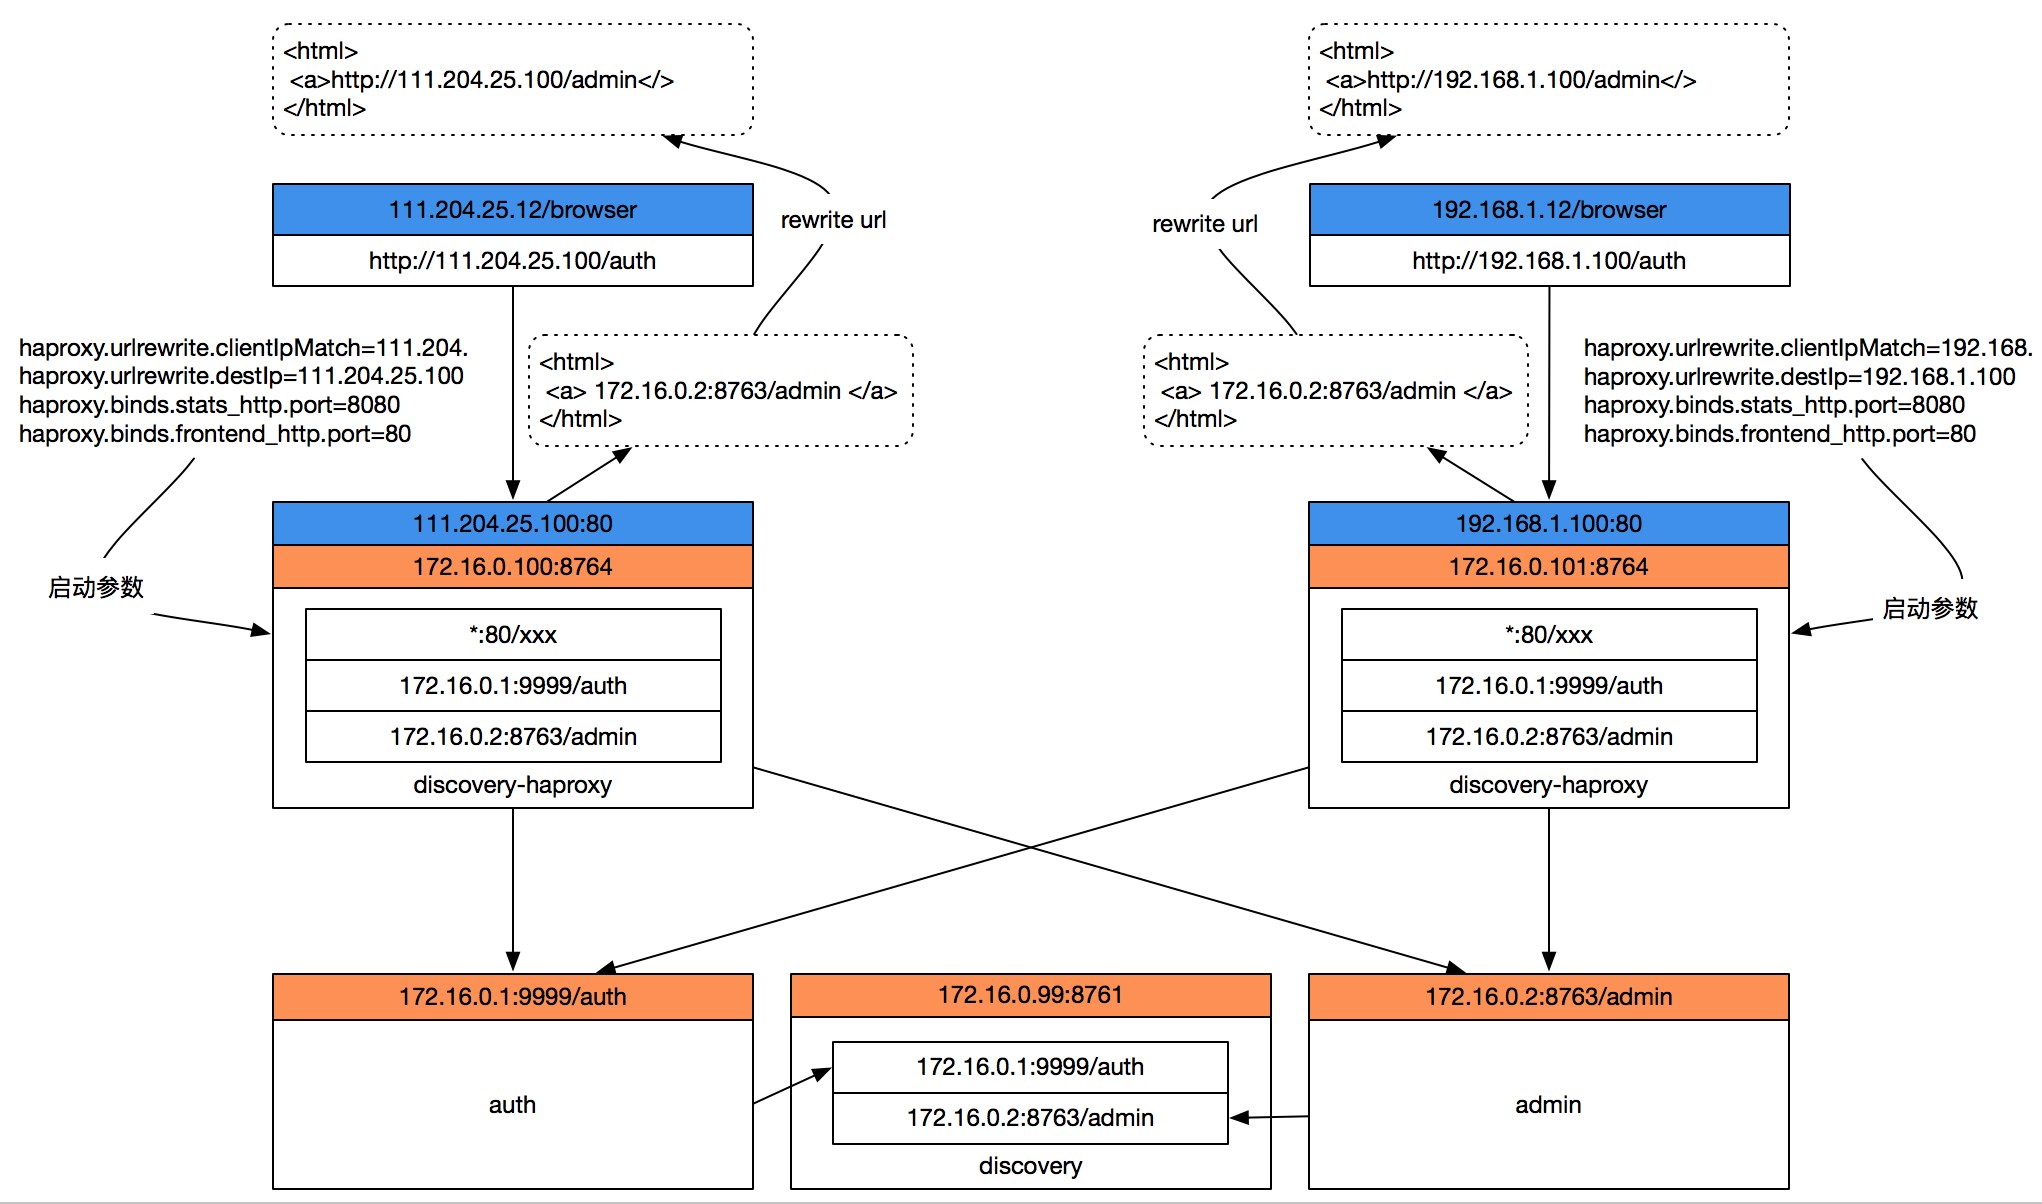
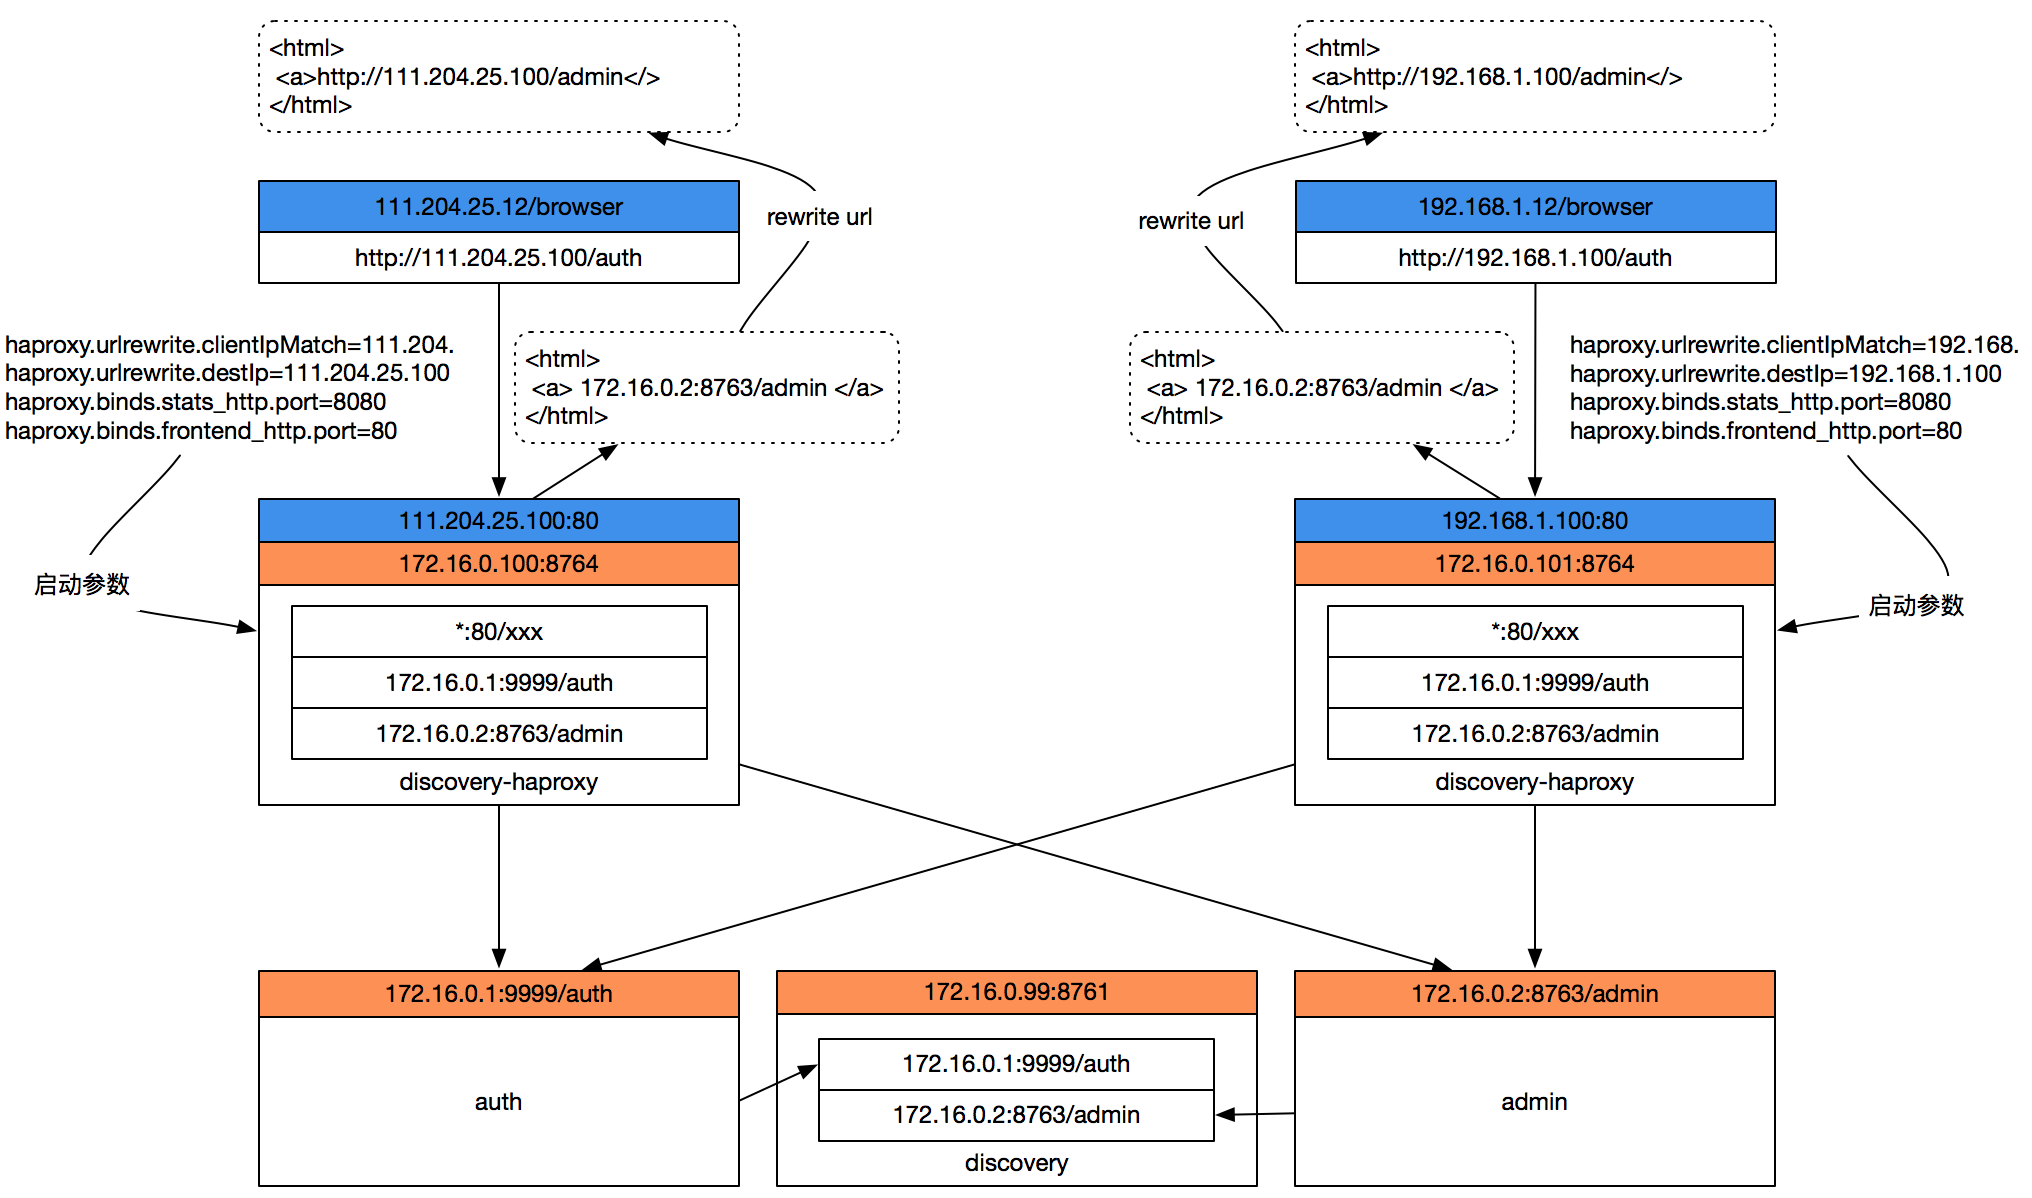
增加代理服务架构图

diff --git a/iplatform-common/DiscoveryHAProxy.md b/iplatform-common/DiscoveryHAProxy.md
@@ -2,7 +2,7 @@
 
 > 作者 张磊
 >
-> 访问代理服务主要用于通过统一的IP地址进行访问，同时提供页面URL地址重写功能
+> 访问代理服务自动代理所有已注册服务的访问，同时提供页面URL地址重写功能，支持通过部署多个代理服务实现不同网络域的用户通过代理进行服务访问
 
 ![image-20181112203825659](images/DiscoveryHAProxy/discoveryhaproxy.png)
 
@@ -96,10 +96,11 @@ URL地址重写
 
 效果说明：
 
-* serviceInfo.homePageUrl 在后台配置的地址是 http://10.22.1.111:9999/auth
-* haproxy的代理访问地址为 http://111.204.35.100/auth，并且服务器端获取的客户端IP段为10.127.x.x
-* 如果通过10.22.1.111地址访问页面，那么页面中serviceInfo.homePageUrl地址依然为http://10.22.1.111:9999/auth
-* 如果通过111.204.35.100地址访问页面，那么页面中serviceInfo.homePageUrl地址变为为http://10.22.1.100/auth
+* 通过外网地址登录认证服务，然后看到认证服务内有一个admin服务的URL地址serviceInfo.homePageUrl 
+* serviceInfo.homePageUrl 在后台配置的地址是 http://172.16.0.101:8764/admin
+* 通过111.204.25.100地址打开auth页面中admin的地址变为 http://111.204.25.100/admin
+* 通过192.168.1.100地址打开auth页面中admin的地址变为 http://192.168.1.100/admin
+* 通过172.16.0.1地址打开auth页面中admin的地址变为 http://172.16.0.2:8763/admin
 
 ## 7.Docker
 
@@ -113,14 +114,14 @@ services:
     network_mode: host
     environment:
       - 'JAVA_OPTIONS=-Xmx512m -Xms512m'
-      - 'discovery.server.address=http://10.22.1.236:8761/eureka/'
+      - 'discovery.server.address=http://172.16.0.99:8761/eureka/'
       - 'eureka.instance.metadataMap.tenant=trident'
       - 'spring.cloud.config.busisys=trident'
       - 'spring.cloud.config.enabled=true'
       - 'spring.cloud.config.profile=生产'
       - 'server.host.prefix=10.22.'
-      - 'haproxy.urlrewrite.destIp=111.204.35.100'
-      - 'haproxy.urlrewrite.clientIpMatch=10.127,10.50'
+      - 'haproxy.urlrewrite.destIp=111.204.25.100'
+      - 'haproxy.urlrewrite.clientIpMatch=111.204.'
       - 'haproxy.binds.frontend_http.port=80'
       - 'haproxy.binds.stats_http.port=8080'
     volumes:
